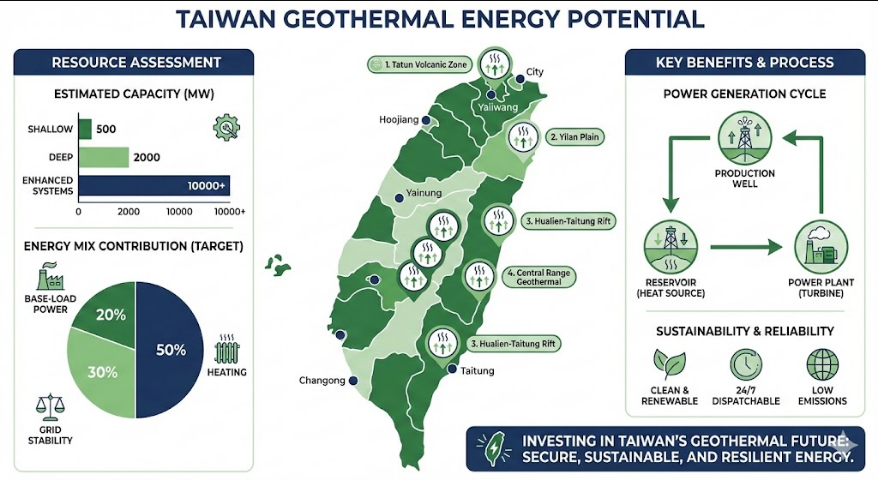
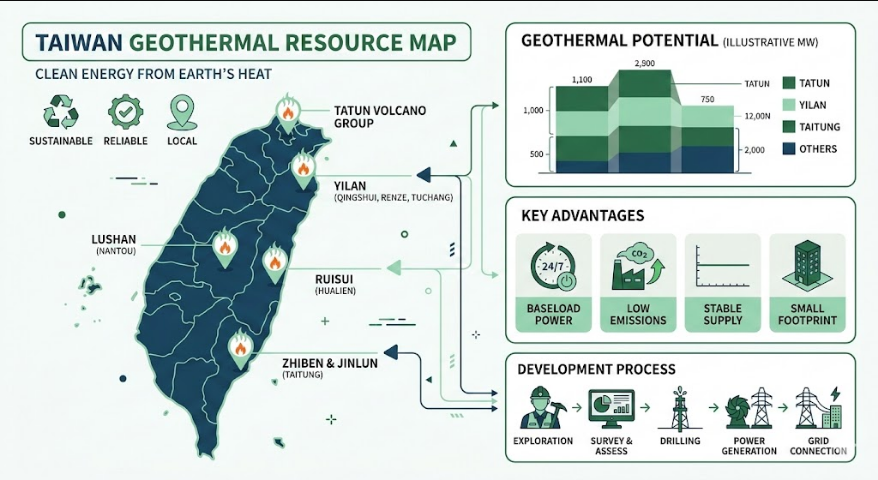
Add EP028: 地熱發電：24 小時不休息的再生能源

diff --git a/_episodes/EP028.md b/_episodes/EP028.md
@@ -1,39 +1,39 @@
 ---
-date: '2026-02-25'
+date: '2026-02-27'
 ep_id: EP028
 layout: episode
 number: 28
 outline: 地熱能源的開發技術與台灣發展潛力
+podcast_audio: podcast.m4a
 podcast_zh: podcast_zh.m4a
 series: S3
 series_name: 再生能源與綠電
 slides:
 - image: slide1.png
   points:
-  - 淺層地熱
-  - 深層地熱
-  - 地熱發電
-  title: 地熱能源
+  - 24小時不間斷
+  - 永續能源來源
+  - 低碳排放
+  title: 地熱發電概要
 - image: slide2.png
   points:
-  - EGS技術
-  - 岩層改造
-  - 提高效率
-  title: 增強型地熱
+  - 淺層地熱
+  - 深層地熱
+  - 增強型系統
+  title: 地熱技術
 - image: slide3.png
   points:
   - 大屯山
   - 宜蘭清水
-  - 地熱資源
-  title: 台灣地熱
+  - 熱泉區
+  title: 台灣地熱資源
 - image: slide4.png
   points:
-  - 成本效益
-  - 環境影響
-  - 永續發展
-  title: 經濟與環境
+  - 低碳排放
+  - 經濟效益
+  - 環境爭議
+  title: 地熱發電效益
 title: 地熱發電：24 小時不休息的再生能源
-podcast_audio: podcast.m4a
 video_overview: video_overview.mp4
 ---
 
